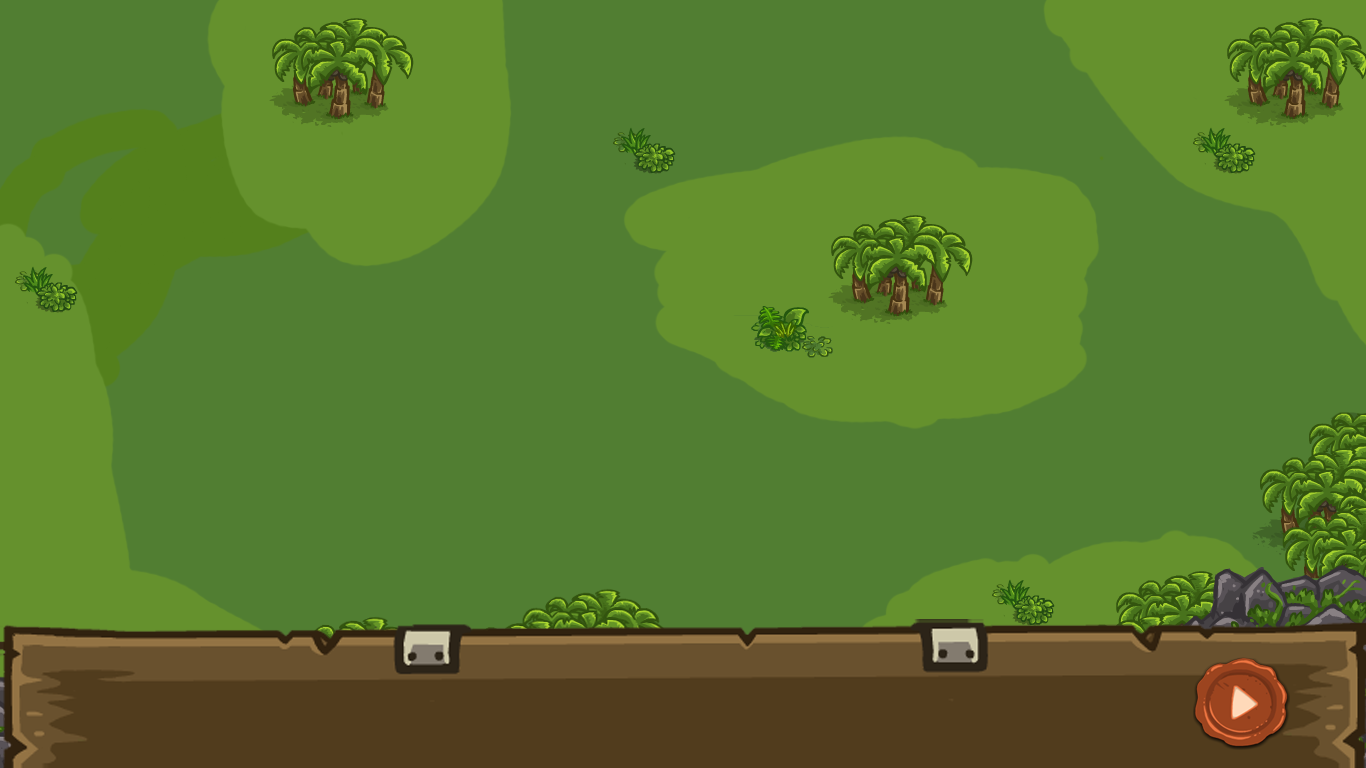
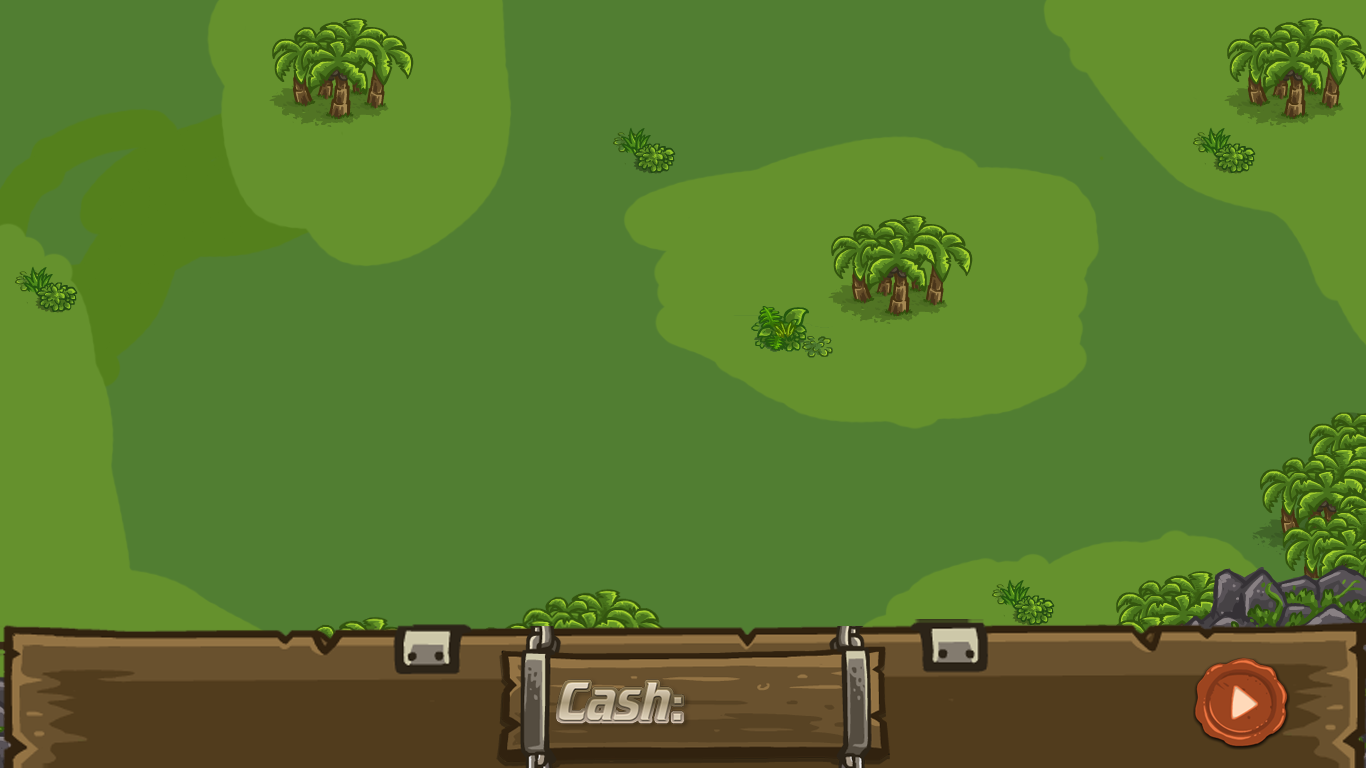
Optimize text rendering/Target's health bar

Changed region(s): [[0.369, 0.8125, 0.6764, 1.0]]

diff --git a/Entity/Enemies/HealthBar.java b/Entity/Enemies/HealthBar.java
@@ -1,5 +1,6 @@
 package Entity.Enemies;
 
+import Utils.Point;
 import Utils.Vertex;
 import Utils.myTexture;
 
@@ -10,28 +11,35 @@ public class HealthBar {
     private myTexture red;
     private myTexture emptyBar;
 
+    private String color;
 
-    public HealthBar() {
+
+    public HealthBar(String color) {
+        this.color = color;
+        red = new myTexture("src/res/GFX/Game/Enemy/HealthBar/HealthBar_red.png", GL_QUADS);
+        green = new myTexture("src/res/GFX/Game/Enemy/HealthBar/HealthBar_green.png", GL_QUADS);
+        emptyBar = new myTexture("src/res/GFX/Game/Enemy/HealthBar/HealthBar_empty.png", GL_QUADS);
     }
 
-    public void render(String color, int health, int currentHealth, int x, int y) {
-        red = new myTexture("src/res/GFX/Game/Enemy/HealthBar/HealthBar_red.png", GL_QUADS, x, y);
-        green = new myTexture("src/res/GFX/Game/Enemy/HealthBar/HealthBar_green.png", GL_QUADS, x, y);
-        emptyBar = new myTexture("src/res/GFX/Game/Enemy/HealthBar/HealthBar_empty.png", GL_QUADS, x, y);
+    public void render(int health, int currentHealth, int x, int y) {
+
+        Point currentPos = new Point(x, y);
 
         Vertex topLeft = new Vertex(0, 0);
         Vertex topRight = new Vertex(1, 0);
         Vertex bottomLeft = new Vertex(1, 1);
         Vertex bottomRight = new Vertex(0, 1);
 
-        if (color.equals("red")) {
+        if (this.color.equals("red")) {
+            red.setTopLeft(currentPos);
             this.red.setDisplayHeight(5);
             this.red.setDisplayWidth((int) (48.0 * ((double) currentHealth / (double) health)));
 
             red.bind();
             red.displayByPartitionVertex(topLeft, topRight, bottomLeft, bottomRight);
         }
-        else if (color.equals("green")) {
+        else if (this.color.equals("green")) {
+            green.setTopLeft(currentPos);
             this.green.setDisplayHeight(5);
             this.green.setDisplayWidth((int) (48.0 * ((double) currentHealth / (double) health)));
 
@@ -40,6 +48,7 @@ public class HealthBar {
         }
 
         this.emptyBar.bind();
+        emptyBar.setTopLeft(currentPos);
         this.emptyBar.setDisplayHeight(7);
         this.emptyBar.setDisplayWidth(50);
         emptyBar.displayByPartitionVertex(topLeft, topRight, bottomLeft, bottomRight);

diff --git a/Entity/Player.java b/Entity/Player.java
@@ -14,13 +14,11 @@ public class Player {
     public Player(int initCash) {
         this.cash = initCash;
         this.live = 1000;
-        this.liveInfo = new myText("Live" + "  " + this.live, 0.5);
-        this.cashInfo = new myText("Cash" + " " + this.cash, 0.5);
+        this.cashInfo = new myText("" + this.cash, 1);
     }
 
-    public void playerInfo(int x, int y) {
-        this.liveInfo.render(x, y);
-        this.cashInfo.render(x, y + 50);
+    public void renderMoney(int x, int y) {
+        this.cashInfo.render(x, y);
     }
 
     public int getCash() {
@@ -33,28 +31,26 @@ public class Player {
 
     public void setCash(int cash) {
         this.cash = cash;
-        this.cashInfo = new myText("Cash" + " " + this.cash, 0.5);
+        this.cashInfo = new myText("" + this.cash, 1);
     }
 
     public void setLive(int live) {
         this.live = live;
-        this.liveInfo = new myText("Live" + "  " + this.live, 0.5);
     }
 
     public void takeDamage(int damage) {
         if (this.live < damage)
             this.live = 0;
         else this.live -= damage;
-        this.liveInfo = new myText("Live" + "  " + this.live, 0.5);
     }
 
     public void payMoney(int price) {
         this.cash -= price;
-        this.cashInfo = new myText("Cash" + " " + this.cash, 0.5);
+        this.cashInfo = new myText("" + this.cash, 1);
     }
 
     public void earnMoney(int bounty) {
         this.cash += bounty;
-        this.cashInfo = new myText("Cash" + " " + this.cash, 0.5);
+        this.cashInfo = new myText("" + this.cash, 1);
     }
 }

diff --git a/Screen/GameScreen.java b/Screen/GameScreen.java
@@ -3,6 +3,7 @@ package Screen;
 import Entity.*;
 import Entity.Enemies.BossEnemy;
 import Entity.Enemies.Enemy;
+import Entity.Enemies.HealthBar;
 import Entity.Enemies.SmallerEnemy;
 import Entity.Menu;
 import Entity.Tile.GameTile;
@@ -48,6 +49,8 @@ public class GameScreen extends Screen{
     private int dummyX = 0;
     private int dummyY = 0;
 
+    private HealthBar liveTarget;
+
     private Music backgroundMusic;
     private Music loseMusic;
     private Music winMusic;
@@ -75,6 +78,7 @@ public class GameScreen extends Screen{
         winMusic = new Music("src/res/SFX/Victory_Theme.ogg");
 
         this.player = new Player(100);
+        this.liveTarget = new HealthBar("green");
 
         new CharacterWidth();
     }
@@ -412,7 +416,9 @@ public class GameScreen extends Screen{
             isMouseDown = false;
         }
 
-        //this.player.playerInfo(580, 675);
+        this.player.renderMoney(710, 675);
+
+        this.liveTarget.render(1000, this.player.getLive(), 1296, 517);
 
         glfwSwapBuffers(window); // swap the color buffers
 

diff --git a/Entity/Enemies/Enemy.java b/Entity/Enemies/Enemy.java
@@ -21,7 +21,7 @@ public class Enemy {
 
     public Enemy(int initDirection, int x, int y) {
         this.direction = initDirection;
-        bar = new HealthBar();
+        bar = new HealthBar("red");
 
         this.x = x;
         this.y = y;
@@ -36,7 +36,7 @@ public class Enemy {
         Vertex bottomRight = new Vertex((this.animationPart - 1) * range, 1);
         texture.displayByPartitionVertex(topLeft, topRight, bottomLeft, bottomRight);
 
-        bar.render("red", this.health, this.currentHealth, this.x, this.y - 15);
+        bar.render(this.health, this.currentHealth, this.x, this.y - 15);
     }
 
     public void updateAnimation() {
